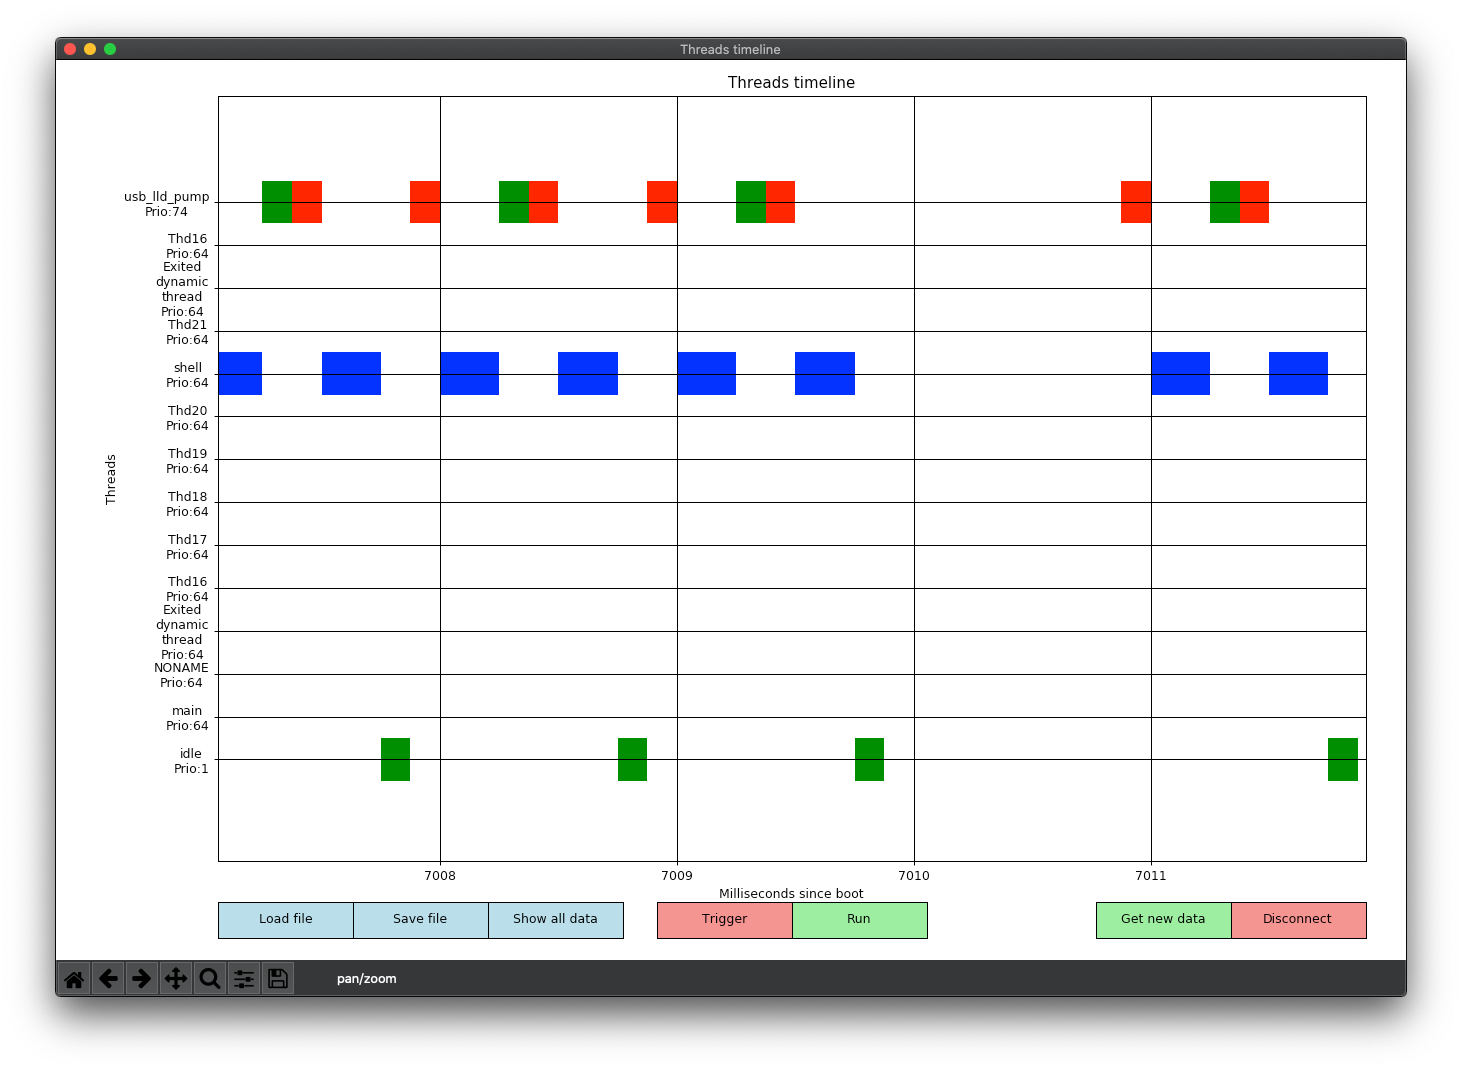
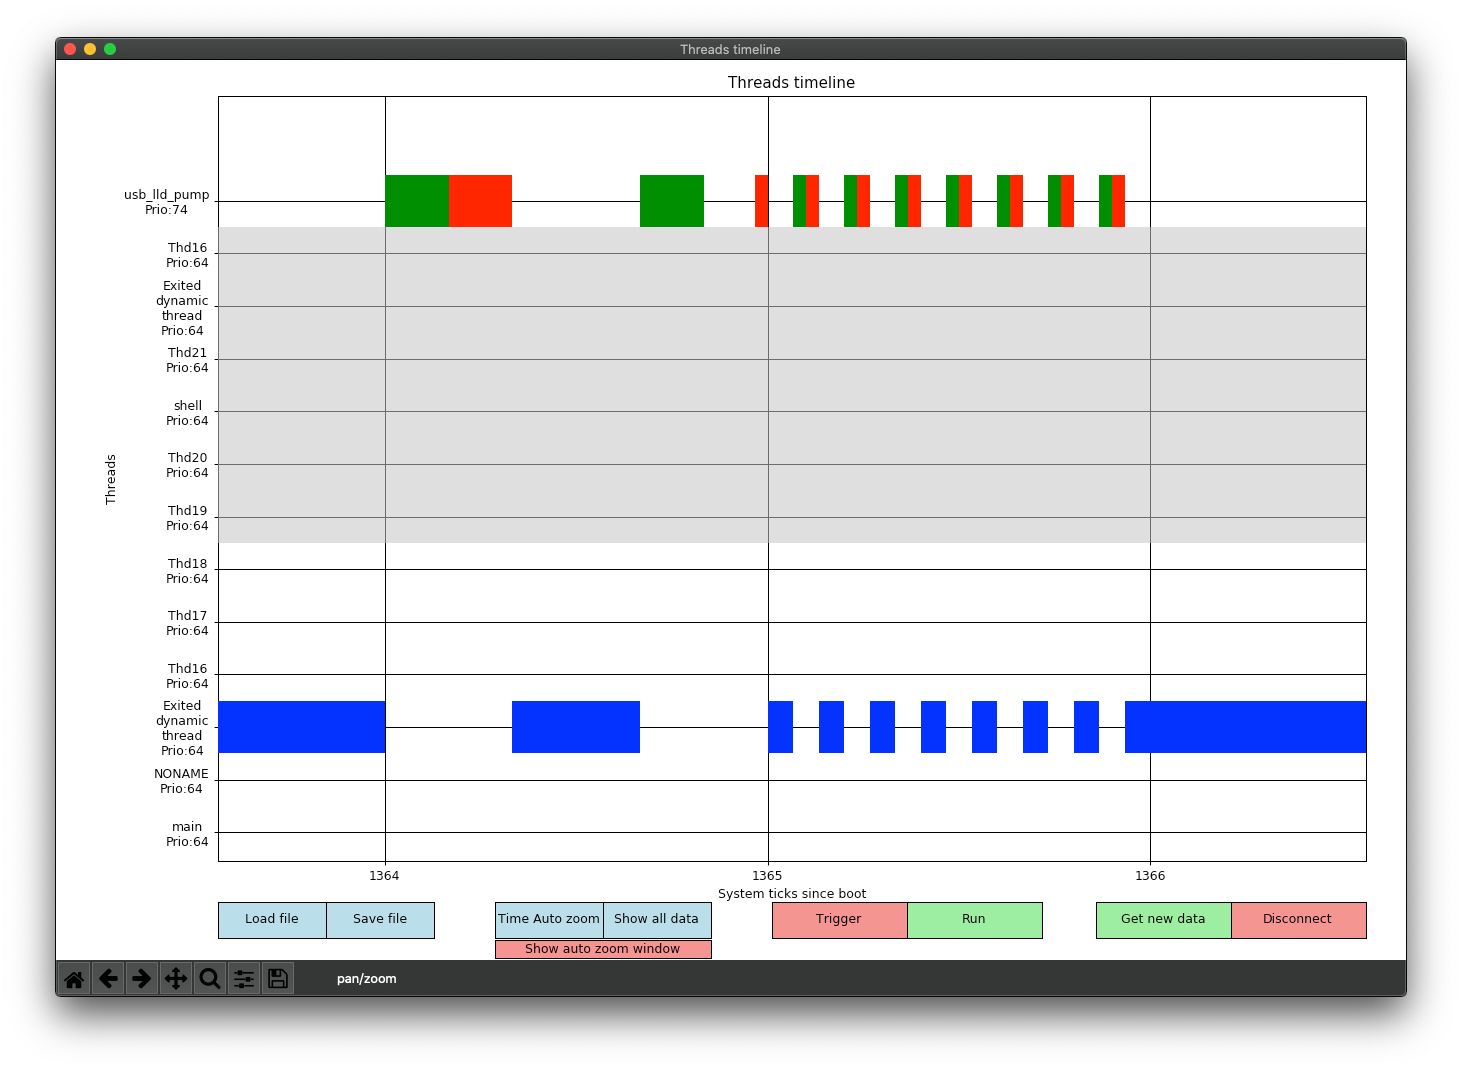
-Updated the readme

diff --git a/README.md b/README.md
@@ -21,8 +21,8 @@ Table of content
       - [Typical timeline](#typical-timeline)
       - [Time subdivisions](#time-subdivisions)
       - [Non logged threads](#non-logged-threads)
-      - [Exited threads](#exited-threads)
       - [Trigger](#trigger)
+      - [Auto zoom window](#auto-zoom-window)
 - [Shell commands](#shell-commands)
 
 
@@ -210,7 +210,15 @@ static const ShellCommand commands[] = {
 };
 ...
 ```
-3. Don't forget to include ``threads_utilities.h`` in the files that use a **threads_utilities** function.
+
+3. Enable the following features of ChibiOS in your ``chconf.h``:
+  - ``CH_DBG_STATISTICS``
+  - ``CH_DBG_FILL_THREADS``
+  - ``CH_DBG_THREADS_PROFILING``
+
+Also the **classic periodic tick** should be used instead of the **tick-less mode**. This is done by setting ``CH_CFG_ST_TIMEDELTA`` to **0**.
+
+4. Don't forget to include ``threads_utilities.h`` in the files that use a **threads_utilities** function.
 
 ### How it works
 The way the MCU records the logs and the script processes them is made such that the creation or deletion of threads, whether they are dynamic or static is handled.
@@ -328,6 +336,9 @@ If the Shell works correctly on the MCU side, you can simply launch the script w
 
 With ``ComPort`` being the USB com port to which the Shell is connected.
 
+It's possible to launch the script **without** a ``ComPort``. When it's the case, the buttons that are used to send commands over USB are not displayed.
+This lets the possibility to use the script with saved data without the need for a physical device connected to the computer.
+
 Then with the matplotlib window opened, it is possible to use the navigation tools (bottom left) to zoom and move inside the timeline. 
 ``Left`` and ``Right`` arrows act respectively like Undo and Redo buttons for the view and pressing ``x``or ``y`` while zooming changes the zoom selection to respectively zooming only in the **X** or **Y** axis.
 
@@ -338,44 +349,51 @@ The logs work similarly to an oscilloscope. You can press the **Trigger** button
 
 When you want to get the data, you can press the **Get new data** button.
 
-There is also the possibility to save or load the data into/from a ``.txt`` file. The data and the current view will be saved to the file and when a file is opened, the data and the view will be recovered. This file can also be useful to debug since the data written are directly what is sent by the MCU before any processing from the script.
+There is also the possibility to save or load the data into/from a ``.txt`` file. The data and the current view will be saved to the file and when a file is opened, the data and the view are recovered. This file can also be useful to debug since the data written are directly what is sent by the MCU before any processing from the script.
 
 The script will also write messages to the terminal for nearly each action of the user.
 
-Finally, depending on the zoom level, a lot of information are not visible until you zoom in enough to make them drawable by matplotlib.
+Finally, be aware that depending on the zoom level, a lot of information are not visible until you zoom in enough to make them drawable by matplotlib.
 
 #### Interpreting the timeline
 ##### Typical timeline
 
-Here is an example of the type of timeline you could obtain with the script. Of course a lot of data are displayed, it is needed to zoom a lot to begin to see useful information.
+Here is an example of the type of timeline you could obtain with the script. Of course a lot of data are not displayed, it is needed to zoom a lot to begin to see useful information.
 
+In order to spot where the first data of each thread is on the timeline, a grey area is drawn until the first data of each thread. This means no data are present inside a grey area.
+
+When a thread is exited, a red area is drawn from the moment the thread has been exited.
 ![Gui](Doc/Gui.png)
 
 The threads are ordered from bottom to top by priority order and then by creation order. This means the lowest priority threads are on the bottom and for the same priority, a thread below an other has been created before it and etc.
 
 ##### Time subdivisions
 
-Since it's highly possible to have multiple context switches during the same system tick, we can not know the exact duration of a thread before switching to another. To still represent all the switches, the duration width of an active thread is dependent on how many context switches happened during the same system tick. For example on the image below, we can see that between the millisecond 1300 and 1301, we switched 13 times so the width drawn is 1/14 of millisecond. The same between the milliseconds 1301 and 1302 but this time with a width of 1/12 because less switches happened.
-Of course if a thread was used at least one millisecond, then it's duration on the timeline will begin to be more accurately drawn, the limitation being the system tick frequency of ChibiOS.
+Since it's highly possible to have multiple context switches during the same system tick, we can not know the exact duration of a thread before switching to another. To still represent all the switches, the duration width of an active thread is dependent on how many context switches happened during the same system tick. For example on the image below, we can see that between the system tick 1176 and 1177, we switched 11 times so the width drawn is 1/12 of system ticks. The same between the system ticks 1177 and 1178 but this time with a width of 1/6 because less switches happened.
+Of course if a thread was used at least one system tick, then it's duration on the timeline will begin to be more accurately drawn, the limitation being the system tick frequency of ChibiOS.
 
 ![Different duration width](Doc/Different_duration_widths.png)
 
 ##### Non logged threads
-When a thread is not logged, we can still have incomplete data if they switched to or from a logged thread. For these threads, the IN times are drawn in smaller green rectangles and the OUT in red rectangles. This let the user know which threads interacted with the logged threads but without knowing exactly how much time the system was in the non logged thread and if these threads were interrupted by others non logged threads.
+When a thread is not logged, we can still have incomplete data from it if the system switched to or from a logged thread. For these threads, the IN times are drawn in smaller green rectangles and the OUT in red rectangles. This lets the user know which threads interacted with the logged threads but without knowing exactly how much time the system was in the non logged threads and if these threads were interrupted by others non logged threads.
 
 ![Non_logged_threads](Doc/Non_logged_threads.png)
 
-##### Exited threads
-
-Exit_threads
-When a thread is exited, a longer red line is drawn at the end of its last timestamp on the timeline. For example the threads **Thd16** and a dynamic thread are exited on the image below.
-
-![Exit_threads](Doc/Exit_threads.png)
-
 ##### Trigger
-Finally the trigger is represented by a red line covering all the threads on the timeline. It has been set on the time 3500 on the example below.
+The trigger is represented by a red line covering all the threads on the timeline. It has been set on the time 3500 on the example below.
 
 ![Trigger](Doc/Trigger.png)
+
+##### Auto zoom window
+
+Finally, a simple auto zoom feature has been implemented in order to apply instantly the zoom level needed to be able to see the smallest drawn bars of the timeline that are inside the **auto zoom window**. The window's width is dynamically adapted when manually zooming. 
+
+Note that this auto zoom feature is useless if the durations you want to see are longer than one system tick. It is only useful when subdivisions are drawn inside the **auto zoom window**.
+
+It's also possible to hide/show this window if wanted with the dedicated button.
+
+You can see below an example of the **auto zoom window**
+![Auto_zoom_window](Doc/Auto_zoom_window.png)
 
 Shell commands
 --------------
